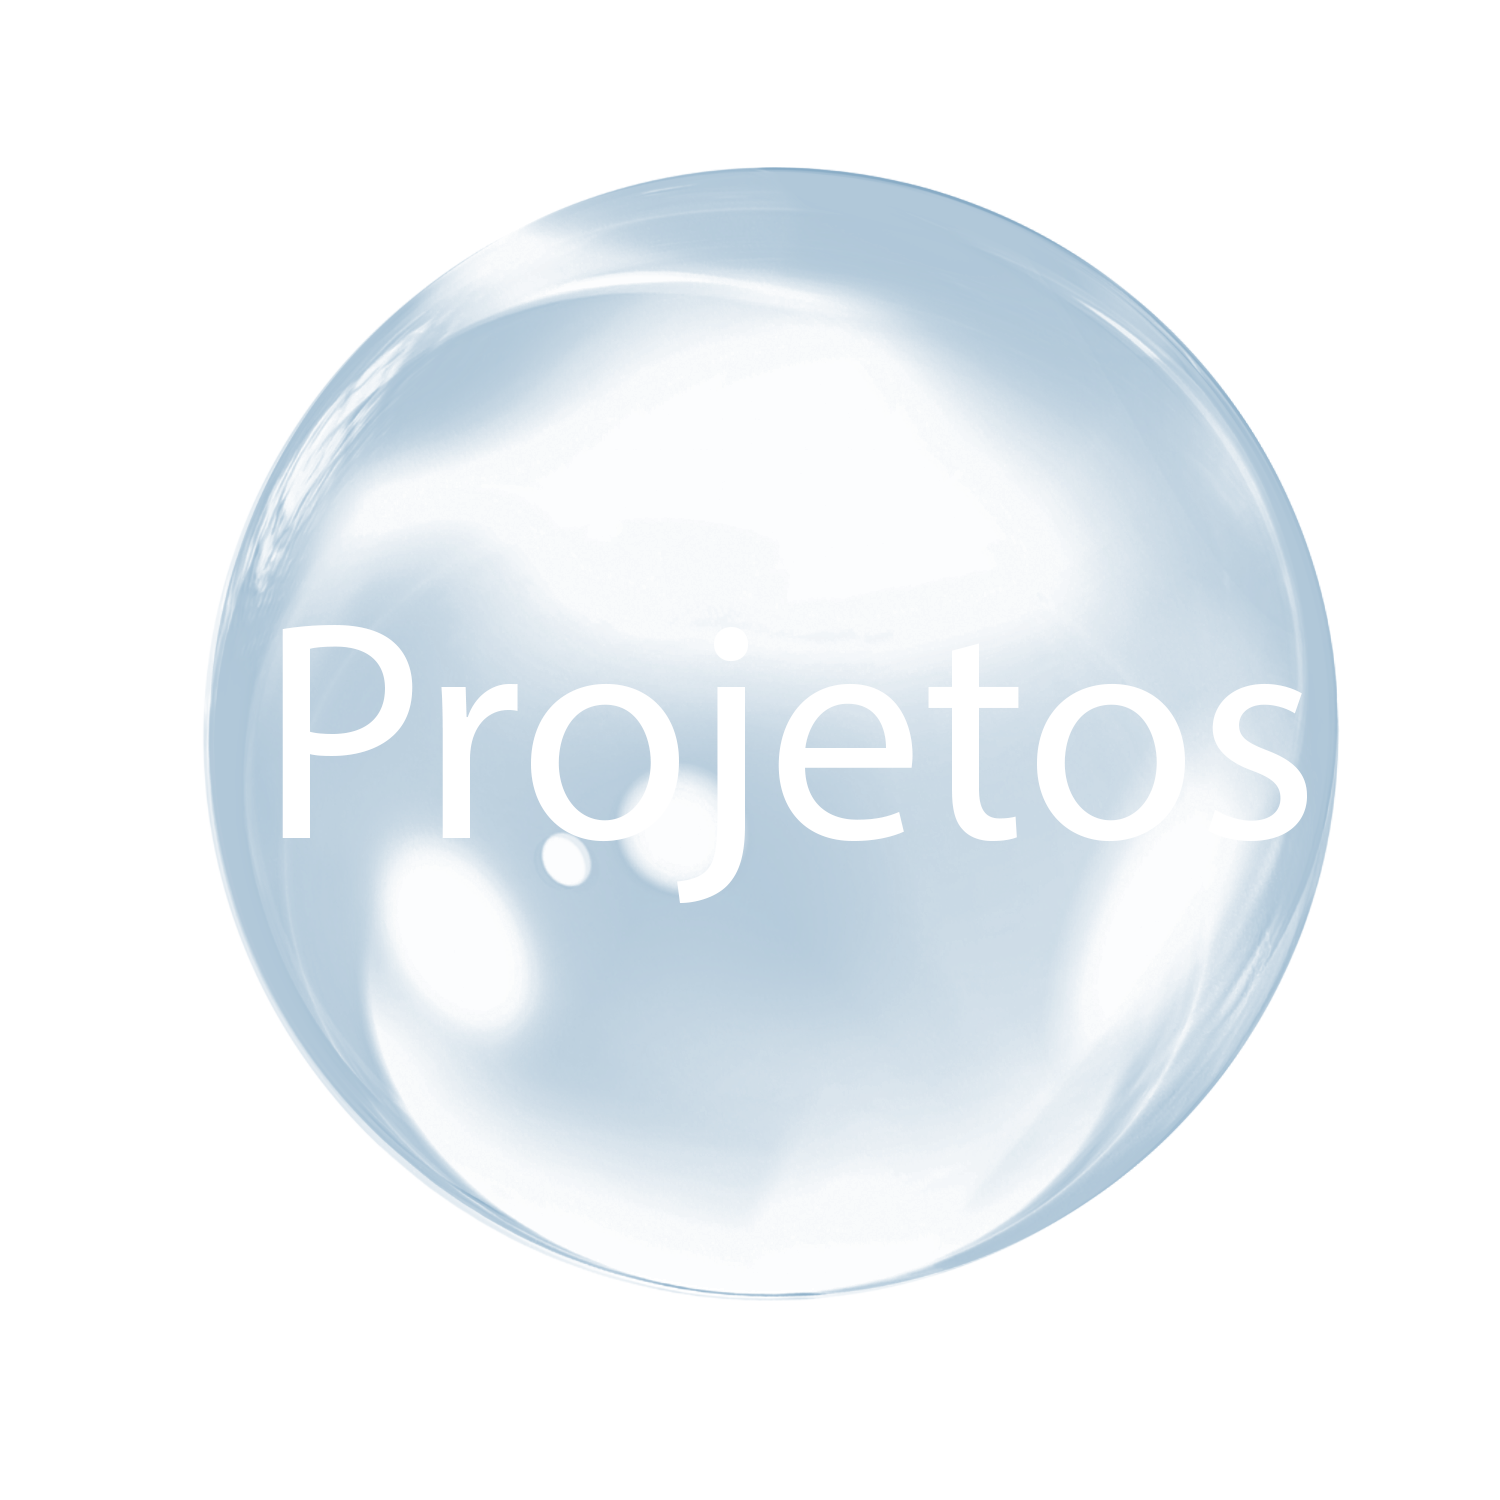
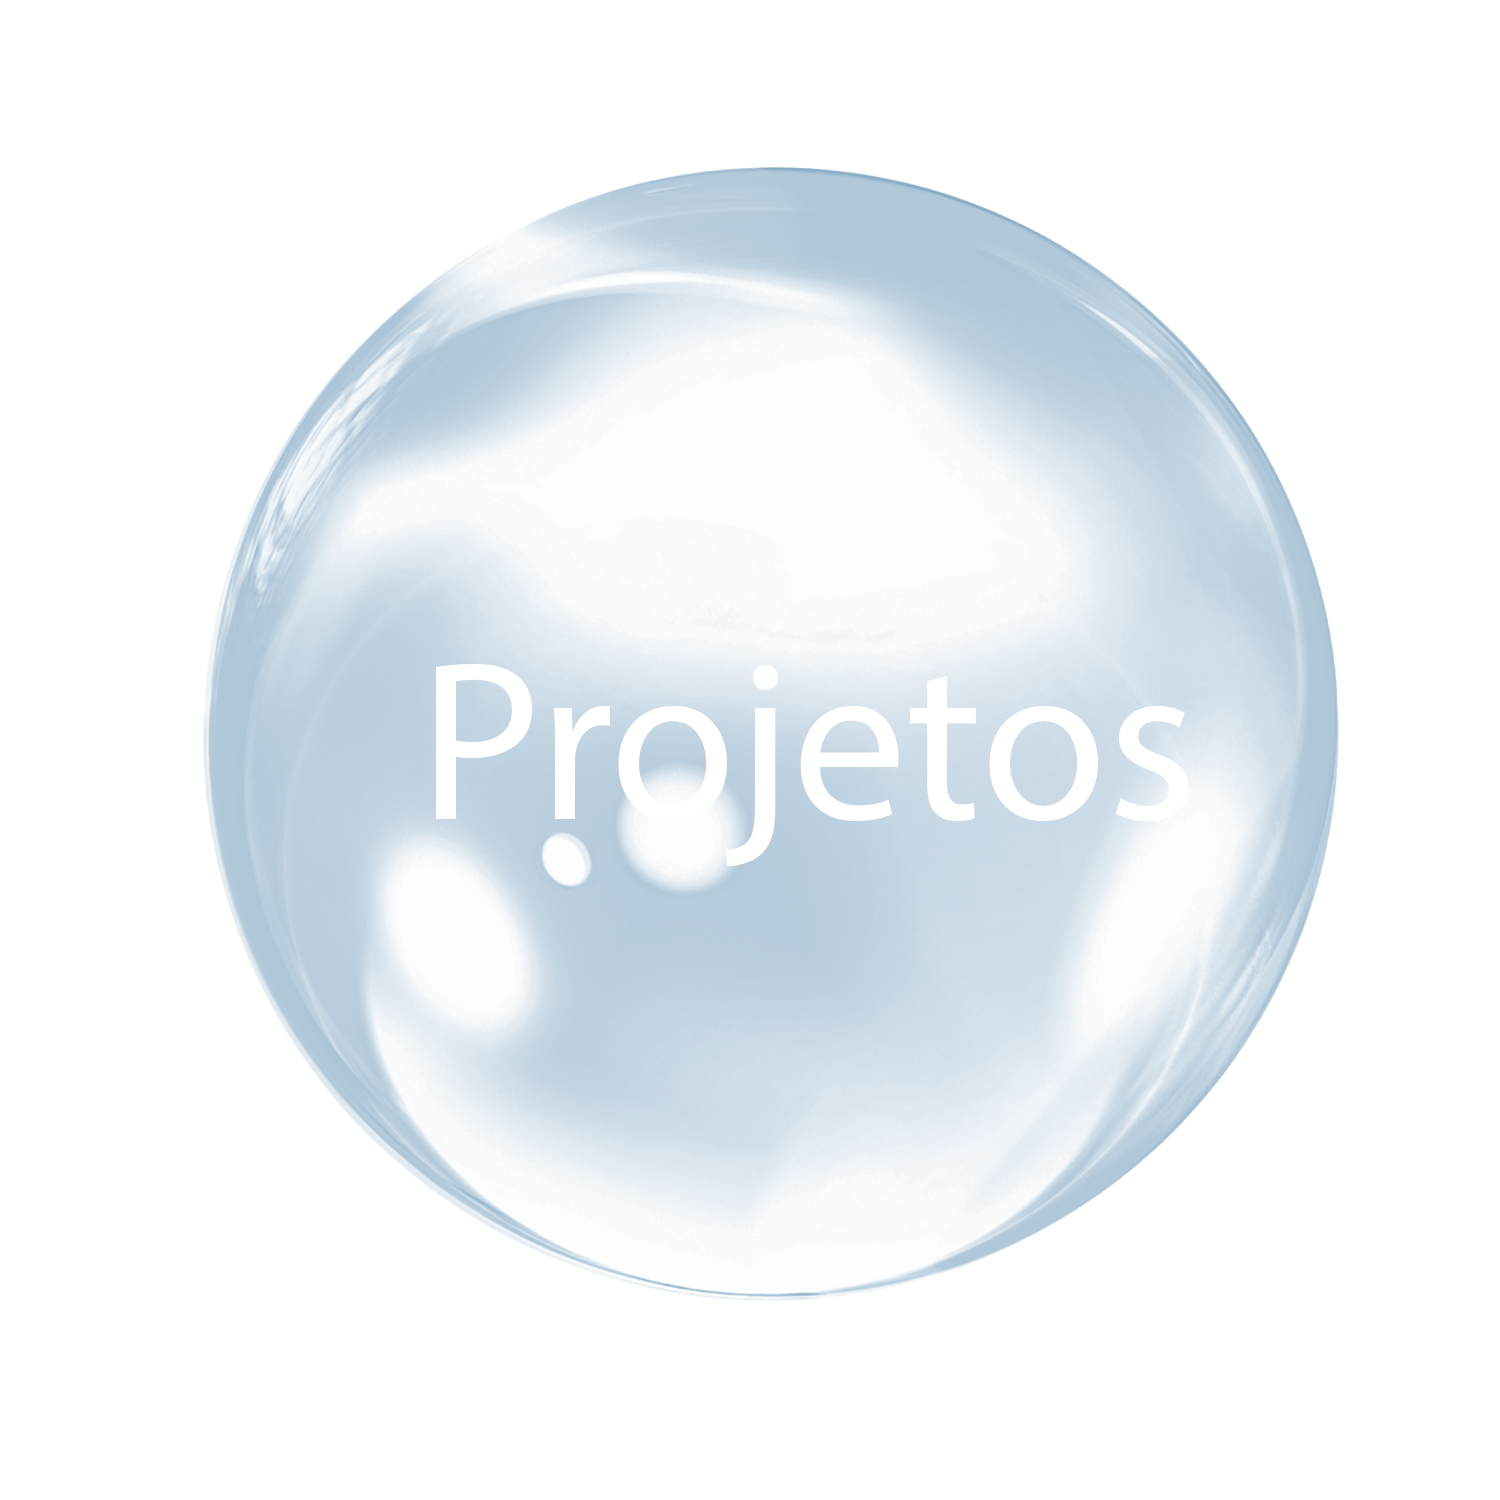
dddd

Changed region(s): [[0.184, 0.3987, 0.8893, 0.6133]]

diff --git a/index.html b/index.html
@@ -73,7 +73,7 @@
 
 
     <!-- POP up -->
-    <div id="window" class="window" style="width: 300px; height: 200px; z-index:9999;">
+    <div id="window" class="window" style="width: 80%; height: 80%; z-index:9999;">
       <div class="title-bar">
         <div class="title-bar-text" style="color: white;"><h5>My first PopUp</h5></div>
         
@@ -100,17 +100,13 @@
     </script>
     <!-- //POP up -->
 
-
+    
     <div class="bouncingball-container">
-      <a href="#vida">
-        <div class="bouncingball"> 
-          <img class="bouncingball" src="assets/img/bolha_vida.png" alt="" width="150px" height="150px" >
-            <!--<span class="bouncingball">Vida</span>-->
-        </div>
-      </a>
-      <a href="#projetos"><div class="bouncingball3"><img src="assets/img/bolha_projetos.png" alt="" width="150" height="150"> </div></a>
-      <a href="#Fundacao"><div class="bouncingball4"><img src="assets/img/bolha_fundação.png" alt="" width="150" height="150"></div></a>
-      <a href="#curiosidade"><div class="bouncingball2"><img src="assets/img/bolha_curiosidades.png" alt="" width="150" height="150"> </div></a>
+
+      <a href="#vida"><div class="bouncingball"><img src="assets/img/bolha_vida.png" alt="" width="250" height="250"> </div></a>
+      <a href="#projetos"><div class="bouncingball3"><img src="assets/img/bolha_projetos.png" alt="" width="250" height="250"> </div></a>
+      <a href="#Fundacao"><div class="bouncingball4"><img src="assets/img/bolha_fundação.png" alt="" width="250" height="250"></div></a>
+      <a href="#curiosidade"><div class="bouncingball2"><img src="assets/img/bolha_curiosidades.png" alt="" width="250" height="250"> </div></a>
     </div>
     <div class="hero-container" data-aos="fade-in">
       <h1>Bill Gates</h1>

diff --git a/assets/css/style.css b/assets/css/style.css
@@ -1887,8 +1887,6 @@ section {
 }
 
 
-
-
 /* Bouncing balls */
 .bouncingball-container {
   
@@ -1906,13 +1904,10 @@ section {
   border-radius:100%;*/
   background:url(/assets/img/Pngtreeblue_bubble_transparent_3610323.png);
   z-index: 999;
-  /*background:#CCC;*/
-  animation: bounce 6s;
-  animation-iteration-count: infinite;
   position: absolute;
-  /*margin:50px;*/
+  margin:50px;
   text-align: center;
-  display: flex;
+  display: block;
   align-items: center;
   cursor: pointer;
 }
@@ -1926,13 +1921,17 @@ section {
   animation: bounce2 6s;
   animation-iteration-count: infinite;
 }
+.bouncingball, .bouncingball2{
+  animation: bounce 6s;
+  animation-iteration-count: infinite;
+}
 
 .bouncingball2, .bouncingball4{
-  right: 20px;
+  right: 5%;
 }
 
 .bouncingball4, .bouncingball3{
-  bottom:30px;
+  bottom:5%;
 }
 
 
@@ -1969,6 +1968,7 @@ section {
 
 @keyframes bounce2 {
   0% {
+      bottom: 0;
       animation-timing-function: ease-in;
   }
   25%{
@@ -1991,7 +1991,7 @@ section {
       transform: translateX(-50%);
     }
   100% {
-      bottom: 30px;
+      bottom: 0;
       animation-timing-function: ease-in;
   }
 }
